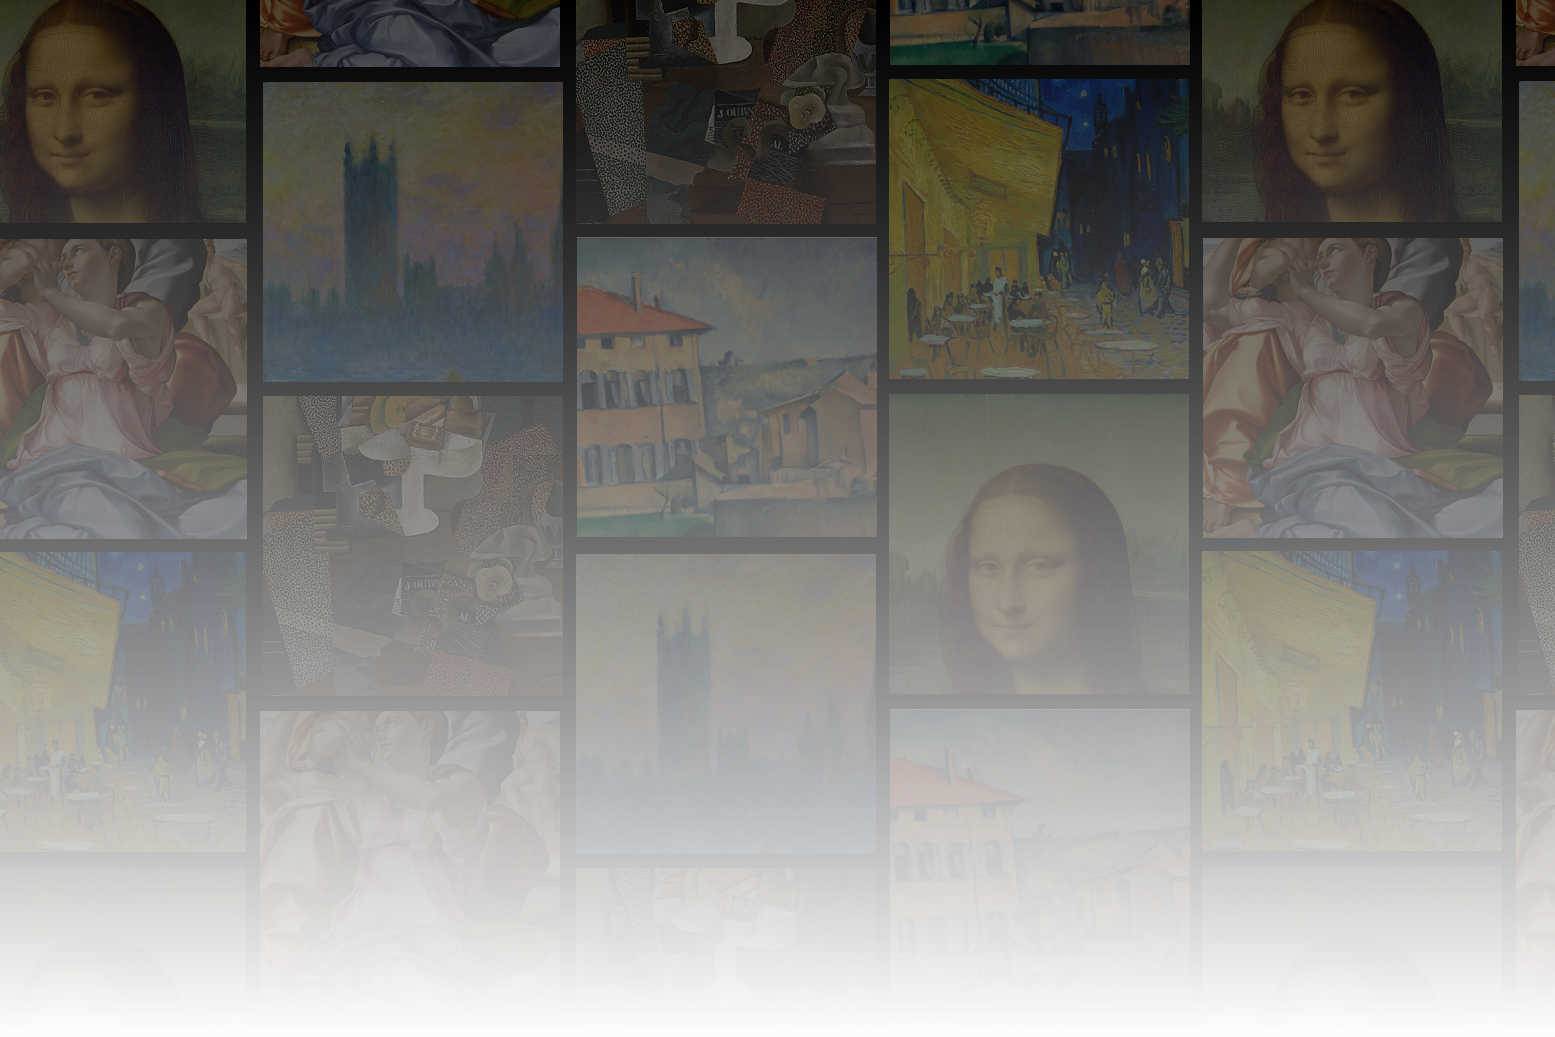
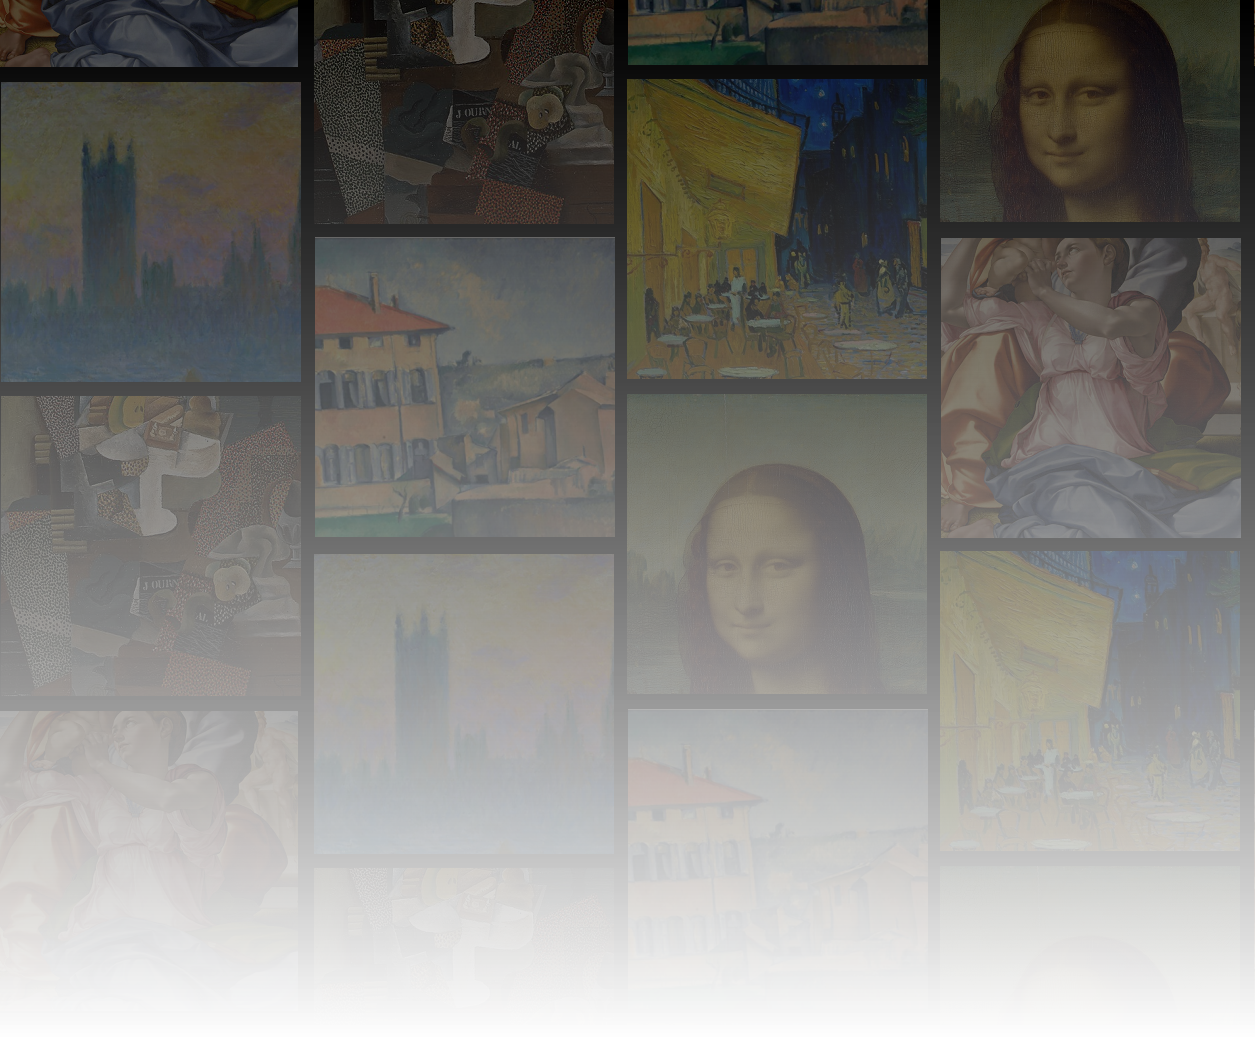
Fixed Index Background issues
- Background image is now tileable
- image no longer repeats on large screens

diff --git a/Sprint Two/css/style.css b/Sprint Two/css/style.css
@@ -126,8 +126,10 @@ a.button-icon-md {
 
 /* #region Index */
 #background-container {
-  height: 89.3vh;
+  height: 80vh;
   background-image: url(../img/background.png);
+  background-repeat: repeat-x;
+  background-position: left bottom;
 }
 
 #background-container .container-lg {

diff --git a/Sprint Two/index.php b/Sprint Two/index.php
@@ -1,7 +1,7 @@
 <html lang="en">
 
 <!--Team Name: MRS Tech
-	Team Member: Jack Dylan Rendle
+	Team Member: Benjamin Stafford / Jack Dylan Rendle
 	Date: 02/04/2024-->
 
 <head>
